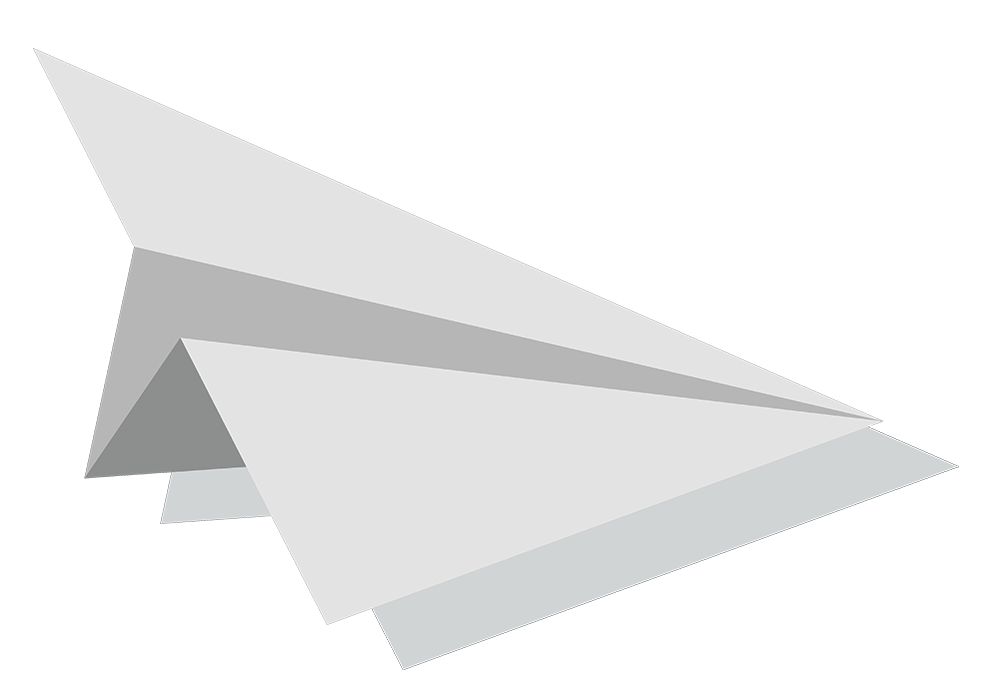
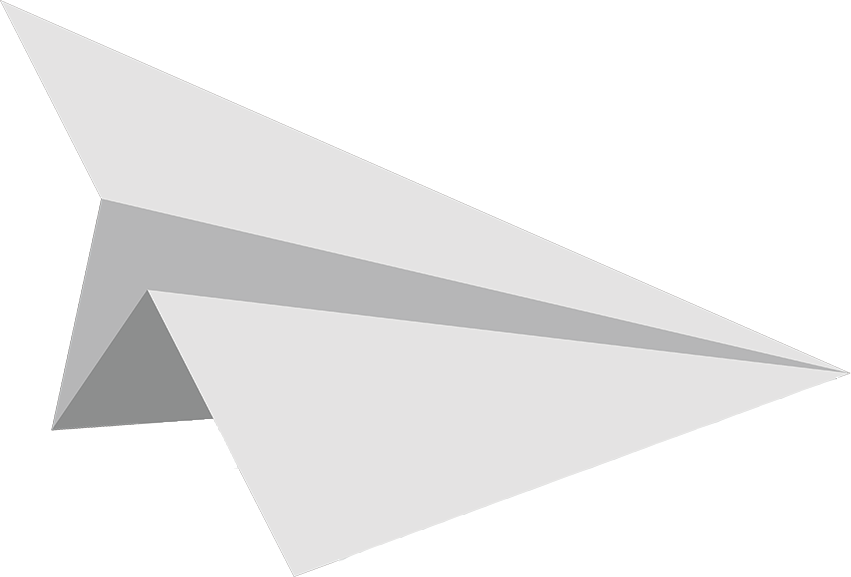
paperplane shadow del

diff --git a/css/styles.css b/css/styles.css
@@ -265,14 +265,14 @@ nav ul li:last-child:hover {
 .paperplane-container {
     display: flex;
     justify-content: center;
-    max-width: 55%;
+    max-width: 50%;
     margin: auto;
 }
 
 .paperplane {
     width: 100%;
     height: auto;
-    transform: rotate(-25deg);
+    transform: rotate(-15deg);
 }
 
 main div * {
